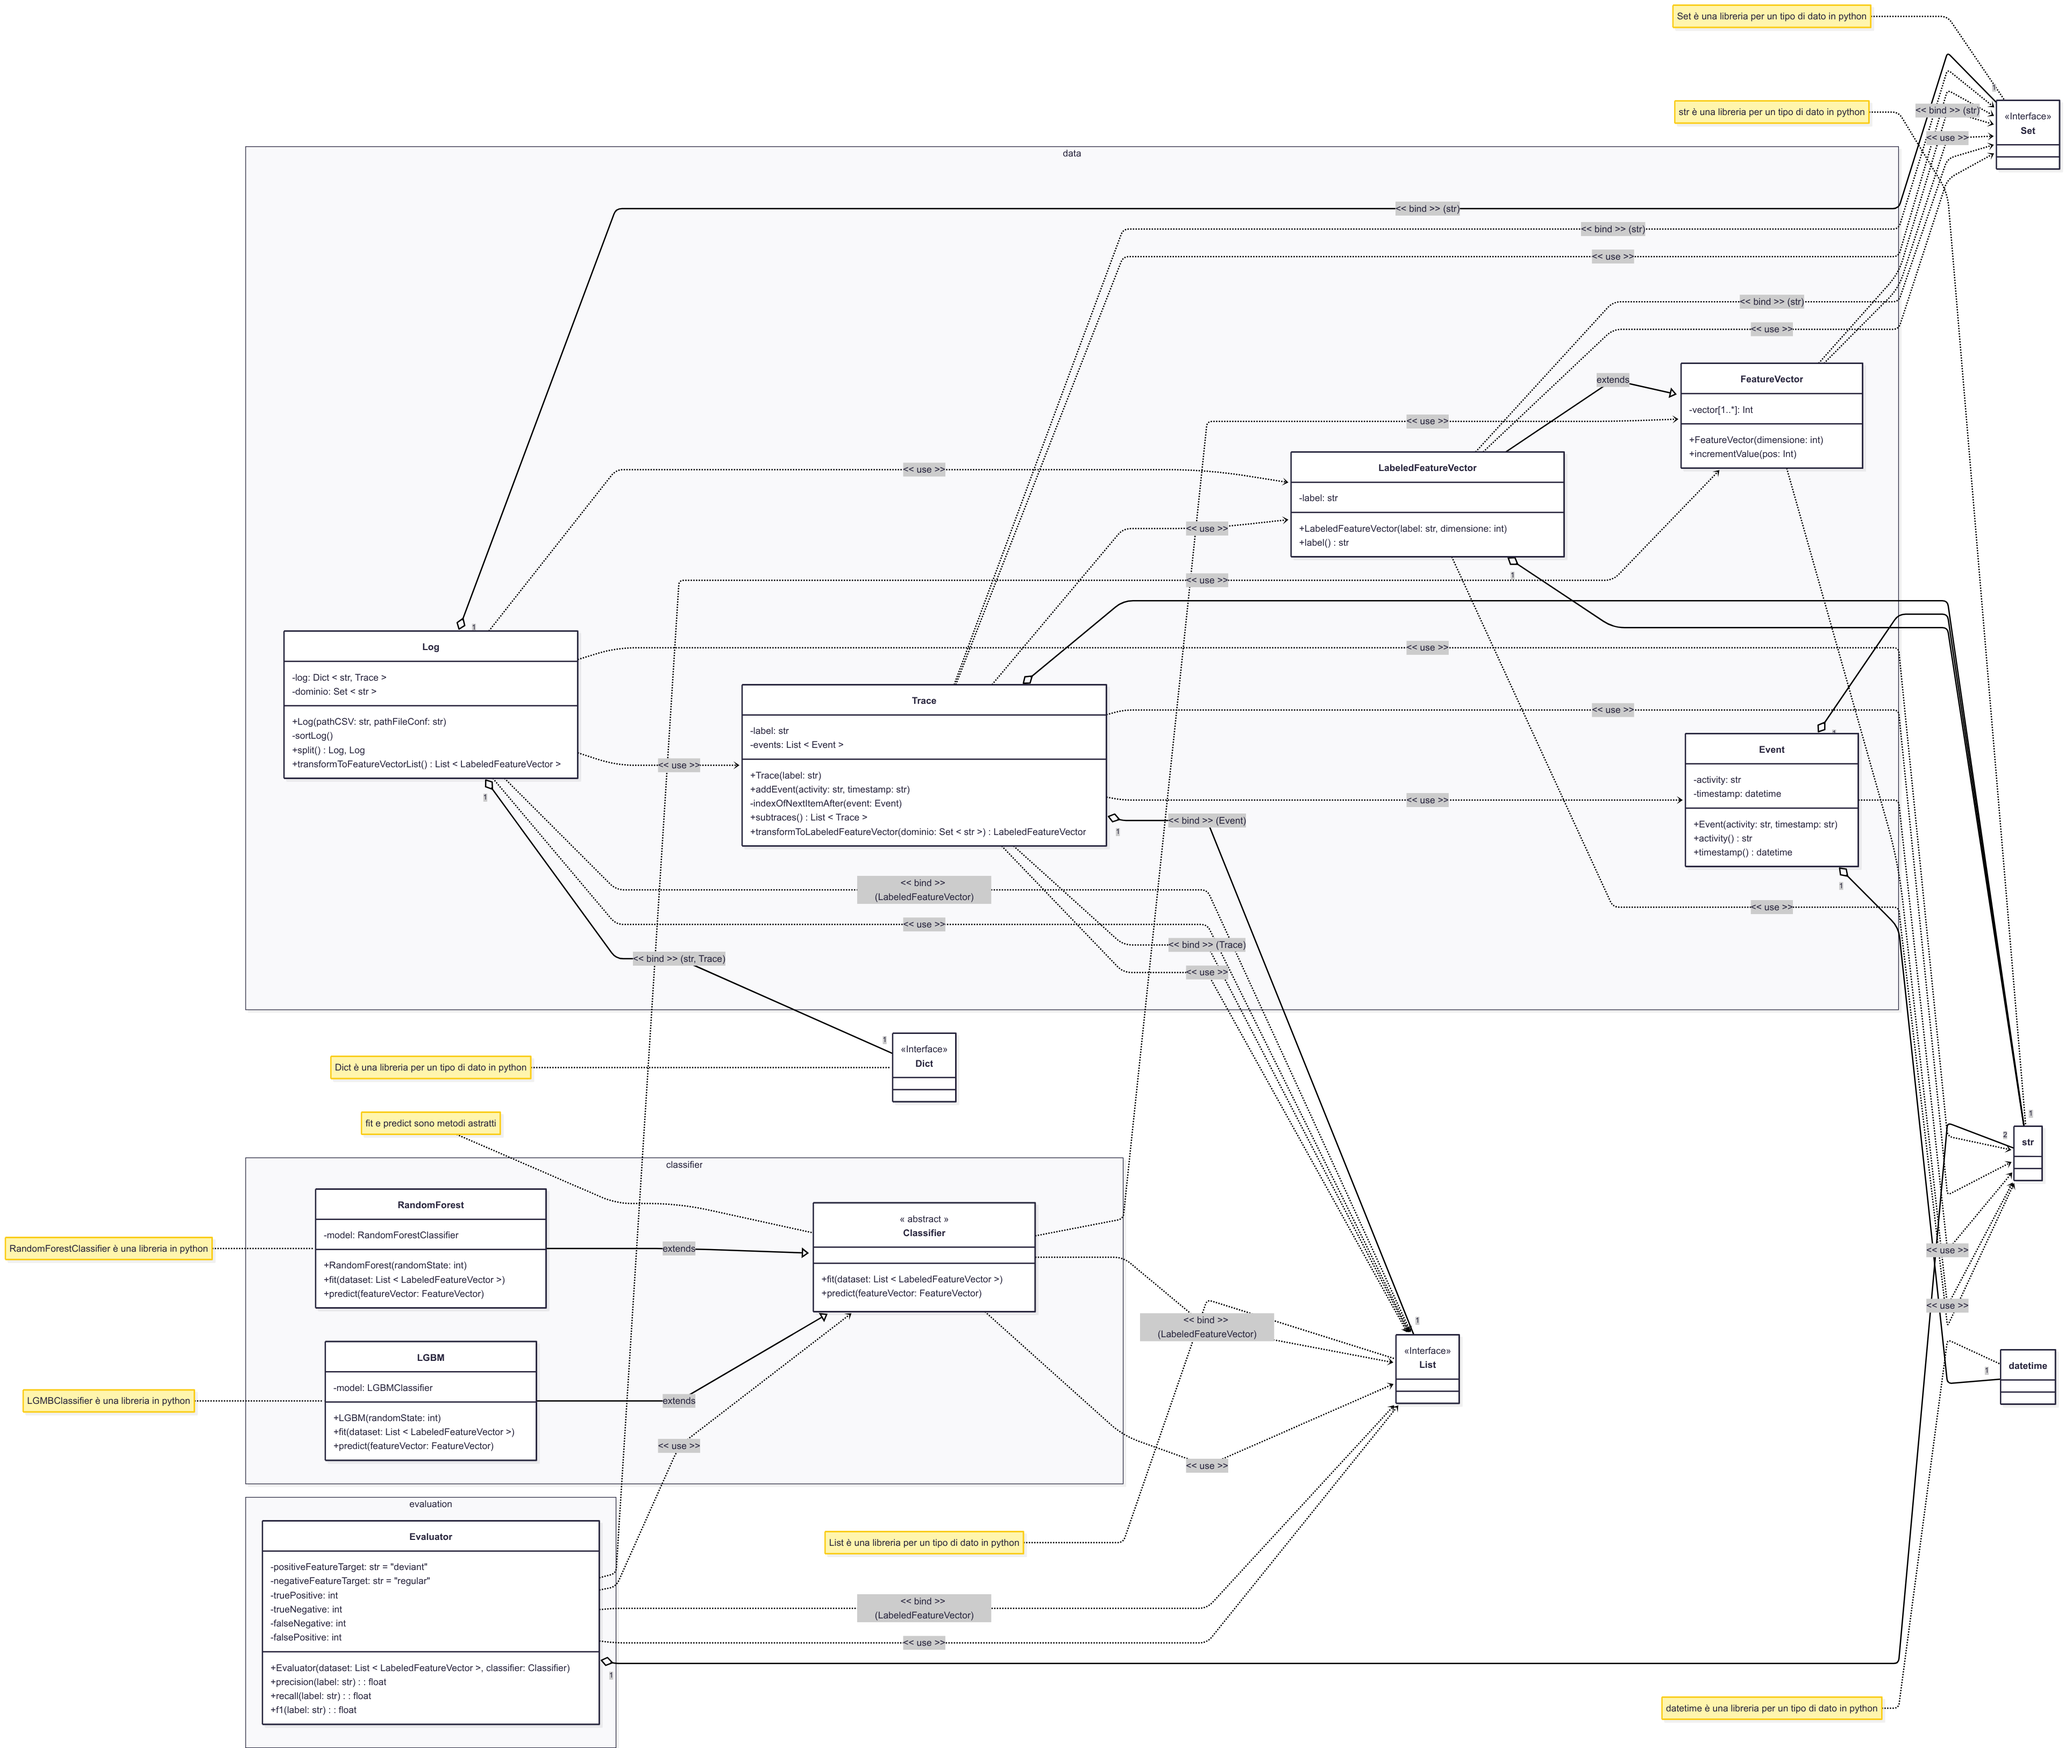
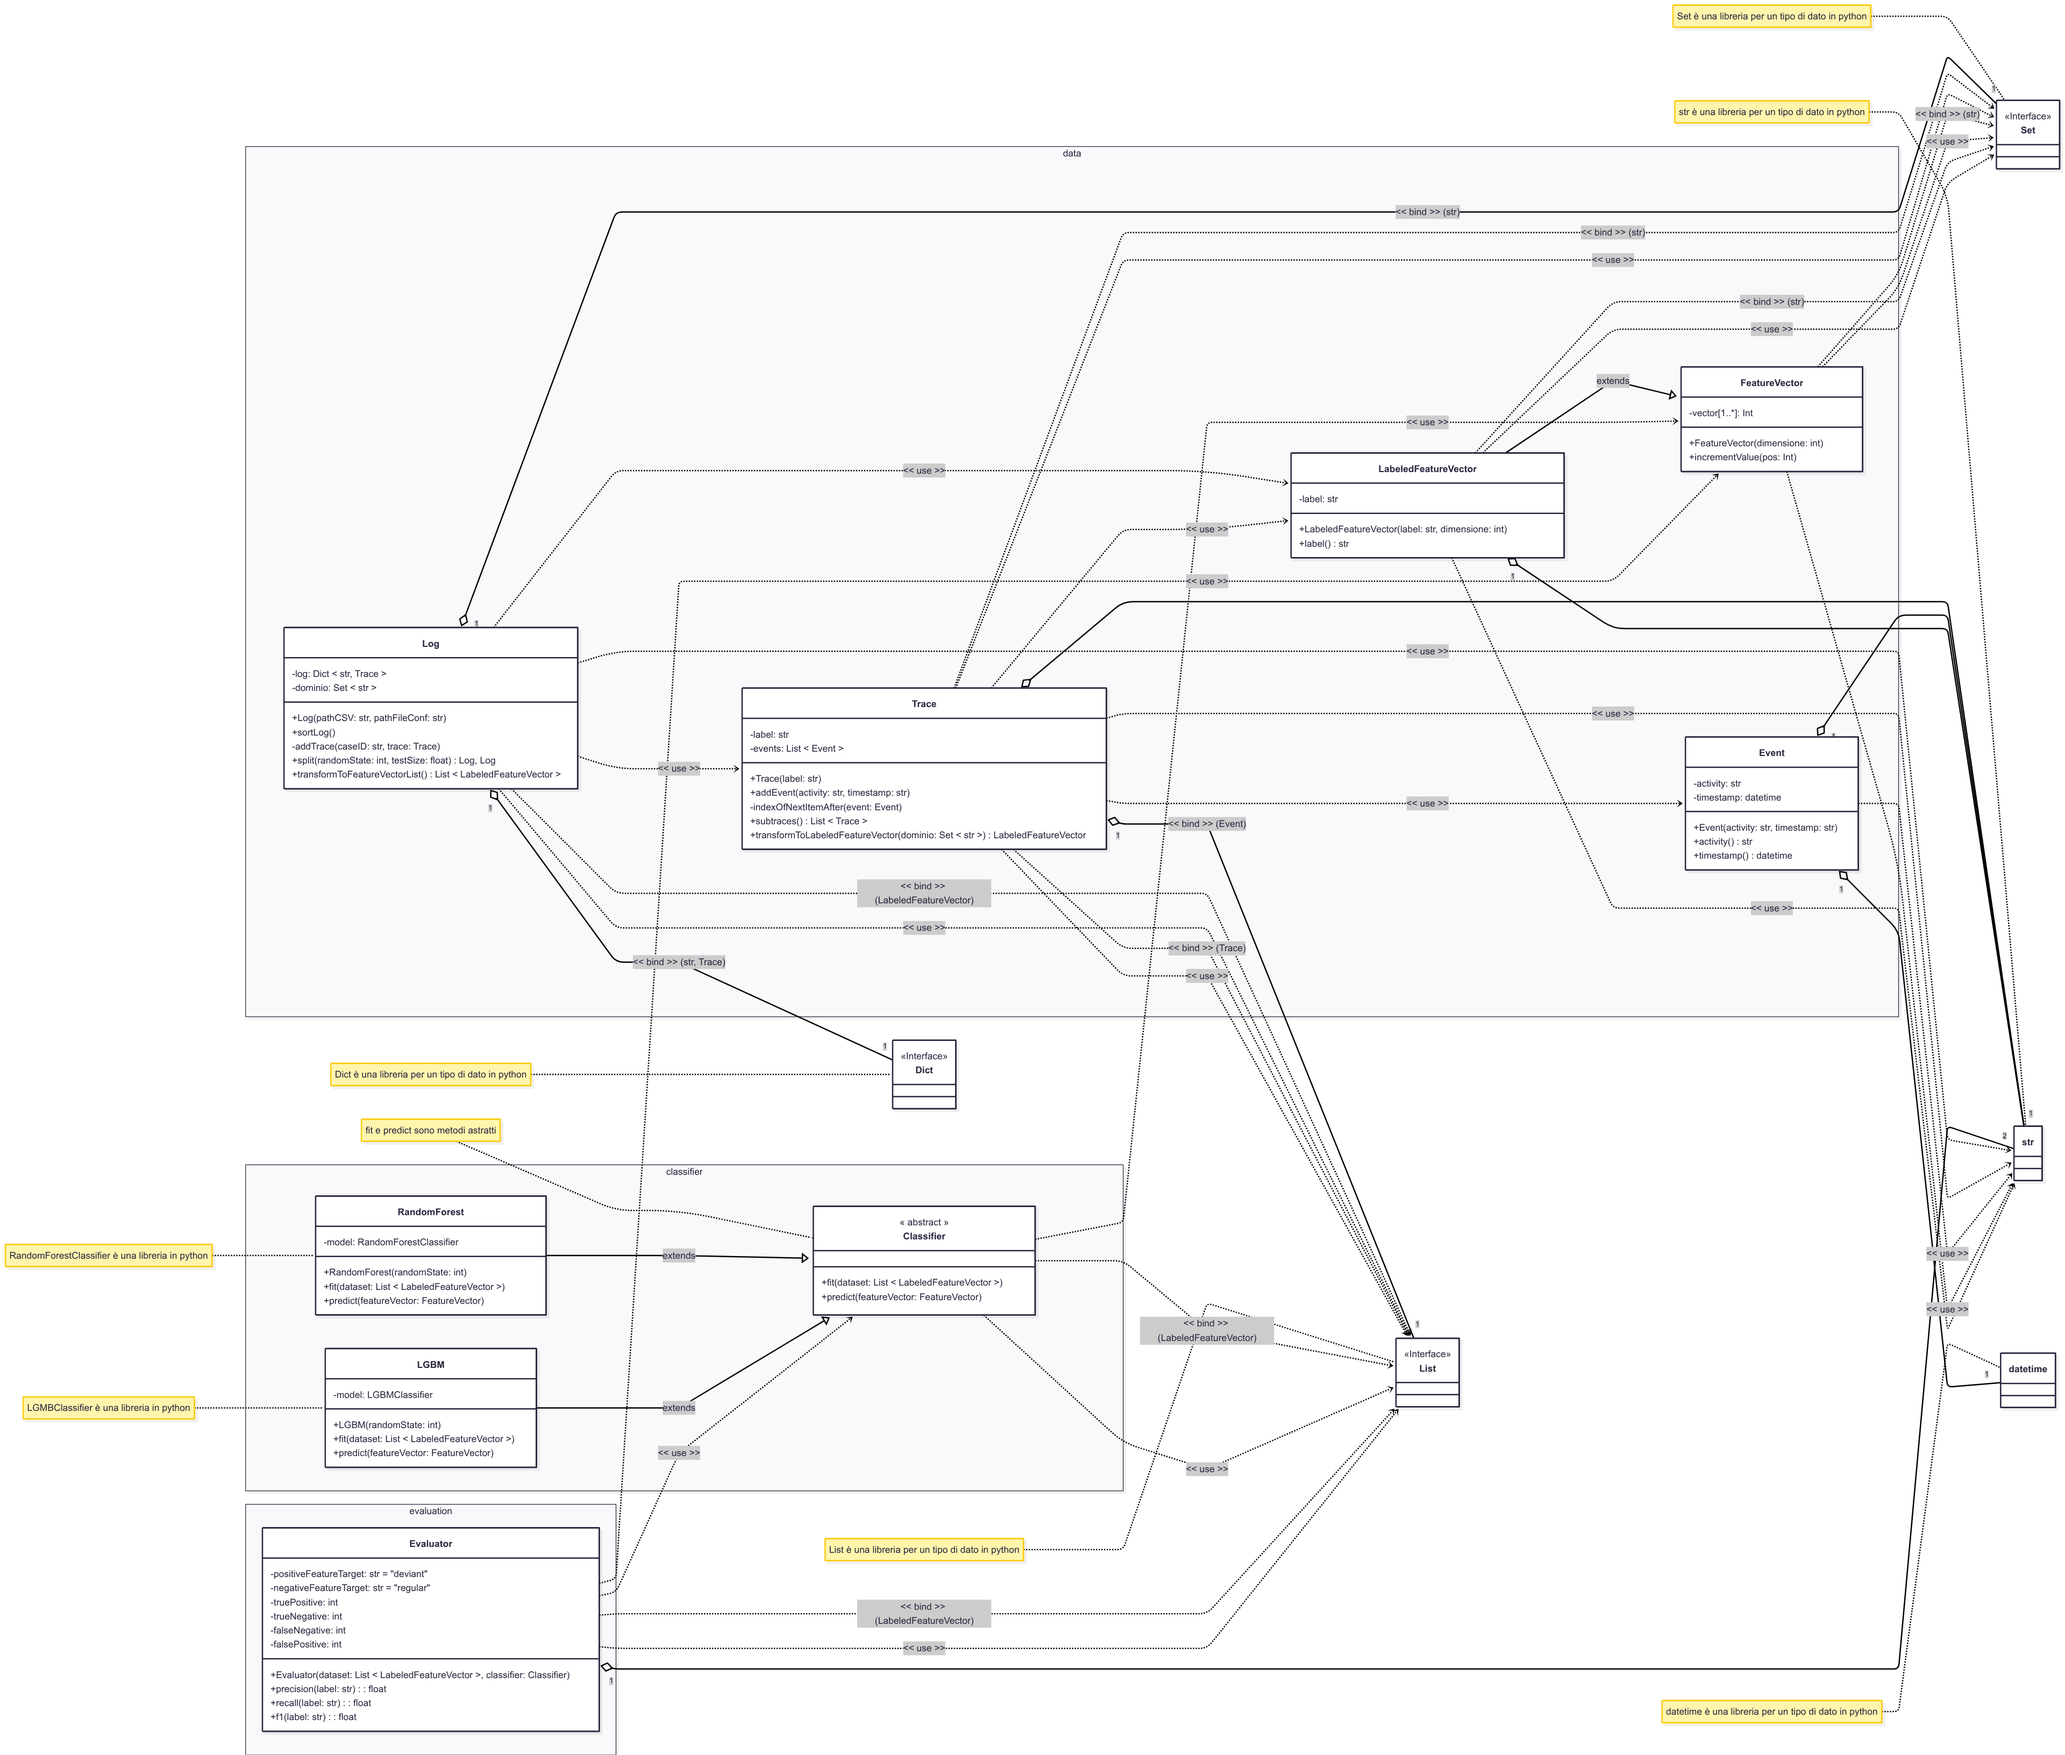
aggiunta split e sortLog e UML aggiornato

diff --git a/data/log.py b/data/log.py
@@ -1,15 +1,17 @@
 from typing import Dict, List
-import pandas as pd
 import json
 import csv
+import numpy as np
 
 from .trace import Trace
 from .labeledFeatureVector import LabeledFeatureVector
 
 class Log:
-    def __init__(self, pathCSV: str, pathFileConf: str):
+    def __init__(self, pathCSV: str = None, pathFileConf: str = None):
         self._log: Dict[str, Trace] = {}
         self._dominio = set()
+        if pathCSV == None and pathFileConf == None:
+            return
         # csv = pd.read_csv(pathCSV, delimiter = ";", skiprows = 1, header = None)
         with open(pathCSV, mode = 'r') as csvfile:
             reader = csv.reader(csvfile, delimiter = ';')
@@ -25,6 +27,40 @@ class Log:
                 self._dominio.add(row[indiciColonne[1]])
                 self._log[row[indiciColonne[0]]].add_event(row[indiciColonne[1]], row[indiciColonne[2]])
 
+    def sortLog(self):
+        self._log = {key: value for key, value in sorted(self._log.items(), key = lambda item: item[1].firstItemTimestamp())}
+
+    def _addTrace(self, caseID: str, trace: Trace):
+        self._log[caseID] = trace
+
+    def split(self, randomState: int, testSize: float):
+        trainSet = Log()
+        testSet = Log()
+        caseIDDomain: Dict[int, str] = {}
+        labelCount = {'regular': 0, 'deviant': 0}
+        self.sortLog()
+        i = 0
+        for caseID, trace in self._log.items():
+            labelCount[trace.label()] += 1
+            caseIDDomain[i] = caseID
+            i += 1
+        for key, value in labelCount.items():
+            labelCount[key] = max(1, value * testSize)
+        rng = np.random.default_rng(randomState)
+        permutation = rng.permutation(len(self._log))
+        for i in permutation:
+            caseID = caseIDDomain[i]
+            trace = self._log[caseID]
+            label = trace.label()
+            if labelCount[label] > 0:
+                testSet._addTrace(caseID, trace)
+                labelCount[label] -= 1
+            else:
+                trainSet._addTrace(caseID, trace)
+        trainSet.sortLog()
+        testSet.sortLog()
+        return trainSet, testSet
+
     def transformToLabeledFeatureVectorList(self):
         labeledFeatureVectorList: List[LabeledFeatureVector] = []
         for caseID, trace in self._log.items():
@@ -39,5 +75,5 @@ class Log:
     def __str__(self):
         out = f""
         for caseID, trace in self._log.items():
-            out = out + str(trace)
+            out = out + f"{caseID}:\n" + str(trace)
         return out

diff --git a/main.py b/main.py
@@ -2,5 +2,6 @@ from data import Log
 from pprint import pprint
 
 log = Log("sepsis_cases_1.csv", "fileConfig.json")
-# print(str(log))
-print(log.transformToLabeledFeatureVectorList())
+trainSet, testSet = log.split(42, 0.34)
+print(str(testSet))
+# print(log.transformToLabeledFeatureVectorList())

diff --git a/data/trace.py b/data/trace.py
@@ -10,6 +10,9 @@ class Trace:
 
     def label(self):
         return self._label
+    
+    def firstItemTimestamp(self):
+        return self._events[0].timestamp()
 
     @dispatch(str, str)
     def add_event(self, activity: str, timestamp: str):

diff --git a/UML.md b/UML.md
@@ -70,8 +70,9 @@ classDiagram
             -log: Dict < str, Trace >
             -dominio: Set < str >
             +Log(pathCSV: str, pathFileConf: str)
-            -sortLog()
-            +split() Log, Log
+            +sortLog()
+            -addTrace(caseID: str, trace: Trace)
+            +split(randomState: int, testSize: float) Log, Log
             +transformToFeatureVectorList() List < LabeledFeatureVector >
         }
 
